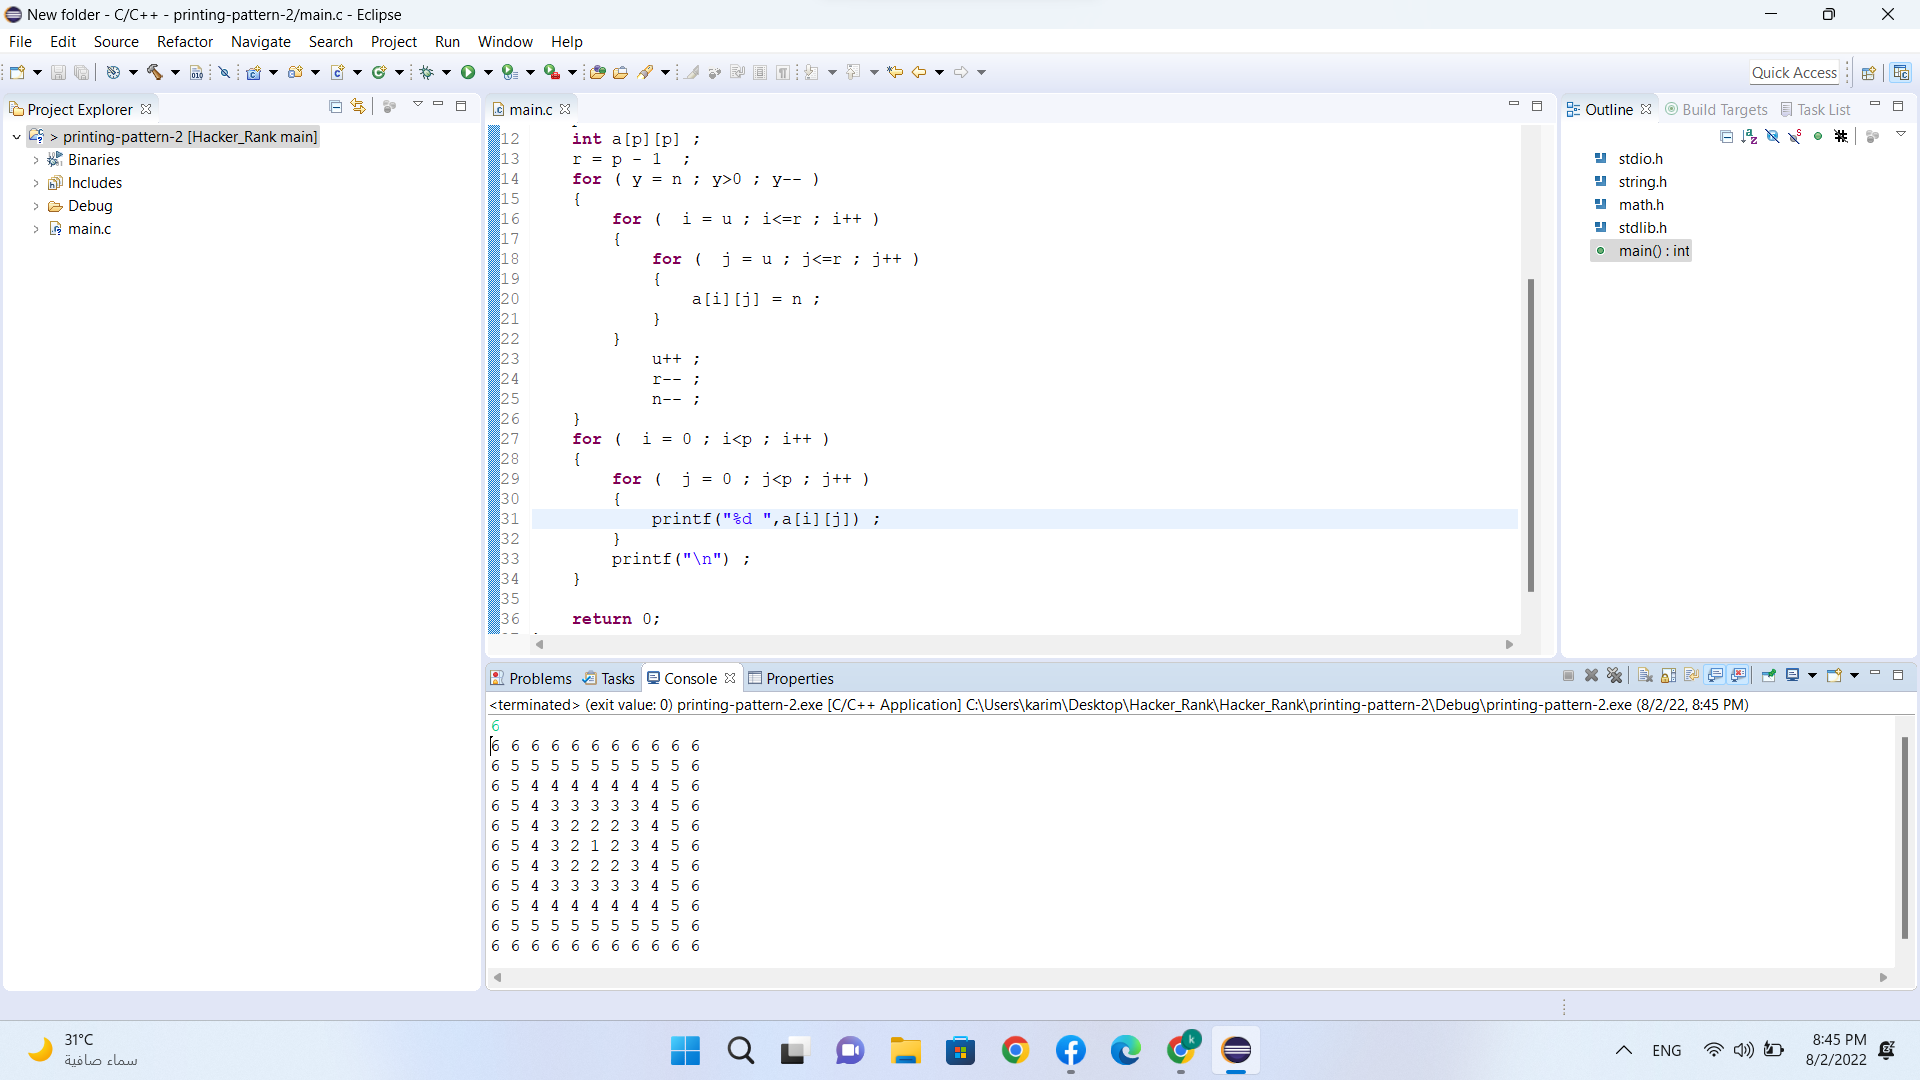
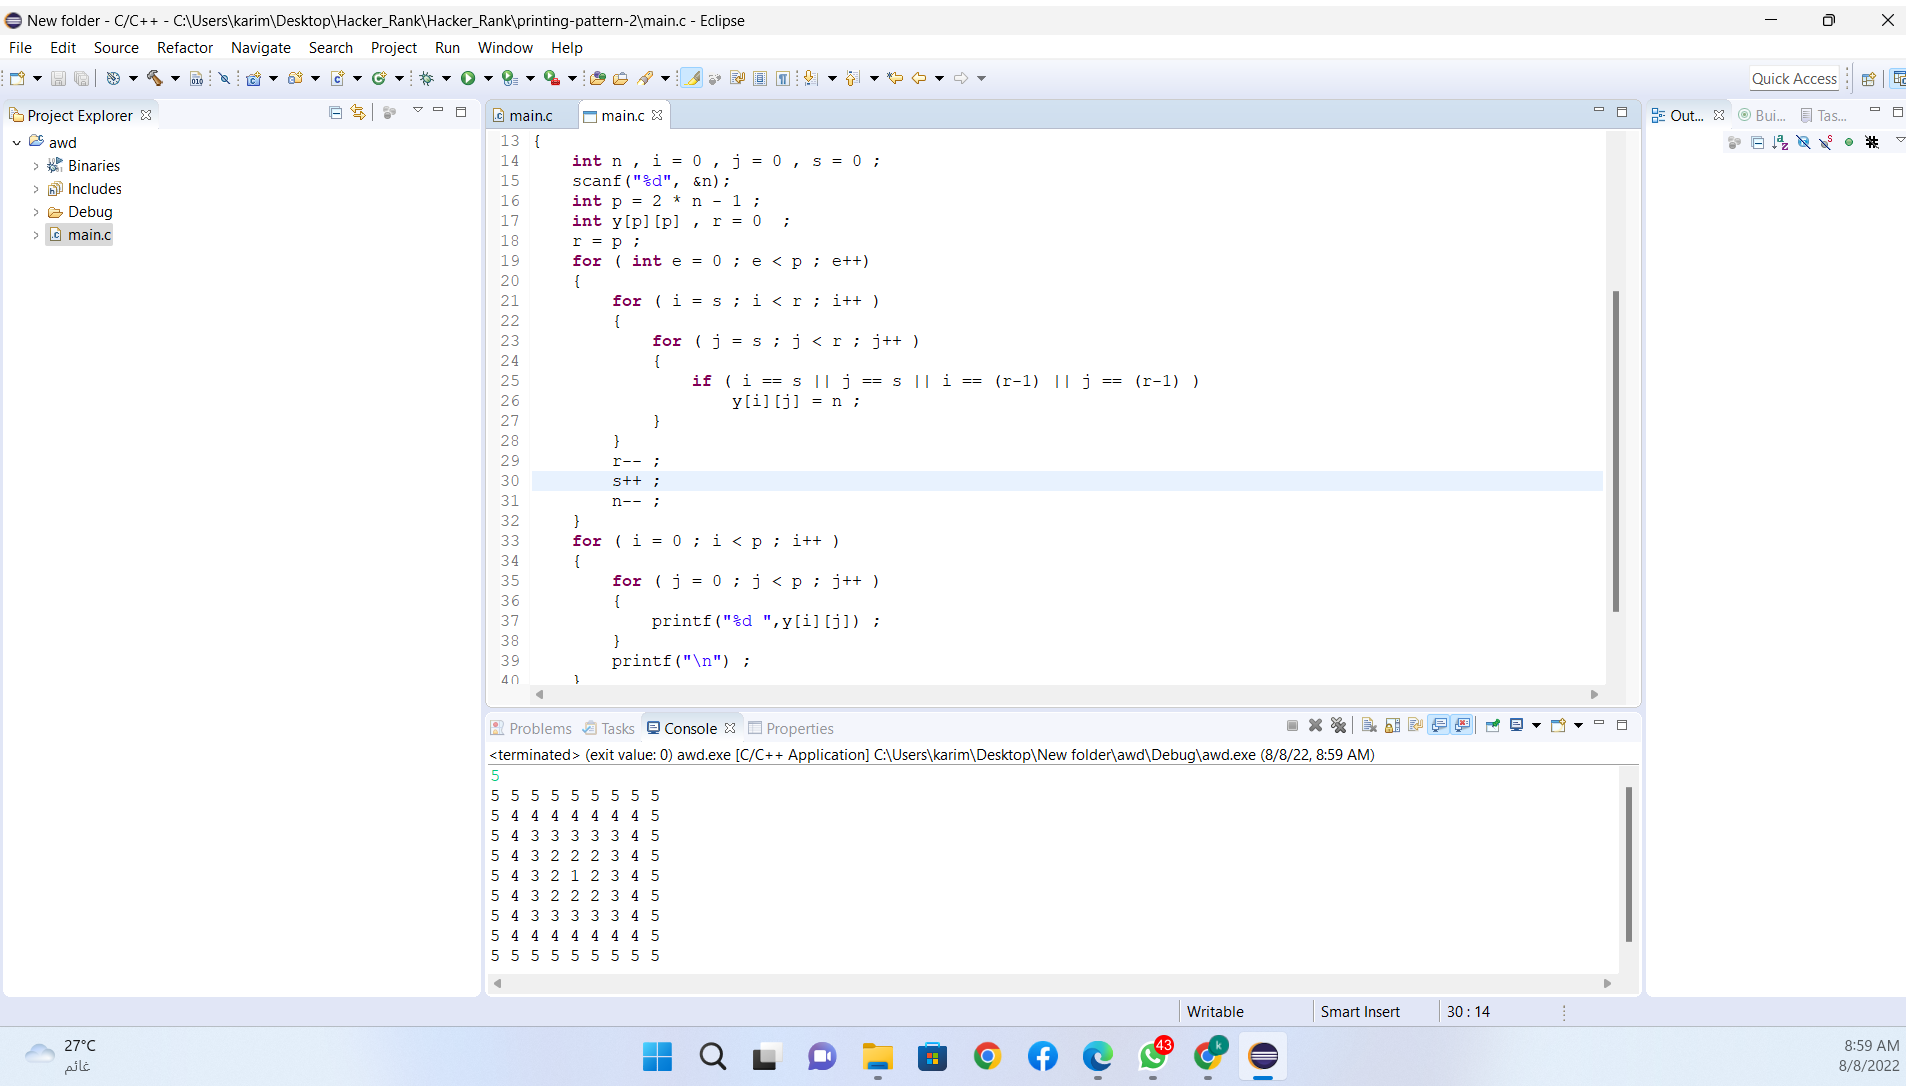
sol_ printing-pattern-2

diff --git a/printing-pattern-2/main.c b/printing-pattern-2/main.c
@@ -1,0 +1,43 @@
+/*
+ * main.c
+ *
+ *  Created on: Aug 7, 2022
+ *      Author: karim
+ */
+#include <stdio.h>
+#include <string.h>
+#include <math.h>
+#include <stdlib.h>
+
+int main()
+{
+	int n , i = 0 , j = 0 , s = 0 ;
+	scanf("%d", &n);
+	int p = 2 * n - 1 ;
+	int y[p][p] , r = 0  ;
+	r = p ;
+	for ( int e = 0 ; e < p ; e++)
+	{
+		for ( i = s ; i < r ; i++ )
+		{
+			for ( j = s ; j < r ; j++ )
+			{
+				if ( i == s || j == s || i == (r-1) || j == (r-1) )
+					y[i][j] = n ;
+			}
+		}
+		r-- ;
+		s++ ;
+		n-- ;
+	}
+	for ( i = 0 ; i < p ; i++ )
+	{
+		for ( j = 0 ; j < p ; j++ )
+		{
+			printf("%d ",y[i][j]) ;
+		}
+		printf("\n") ;
+	}
+	return 0;
+}
+
